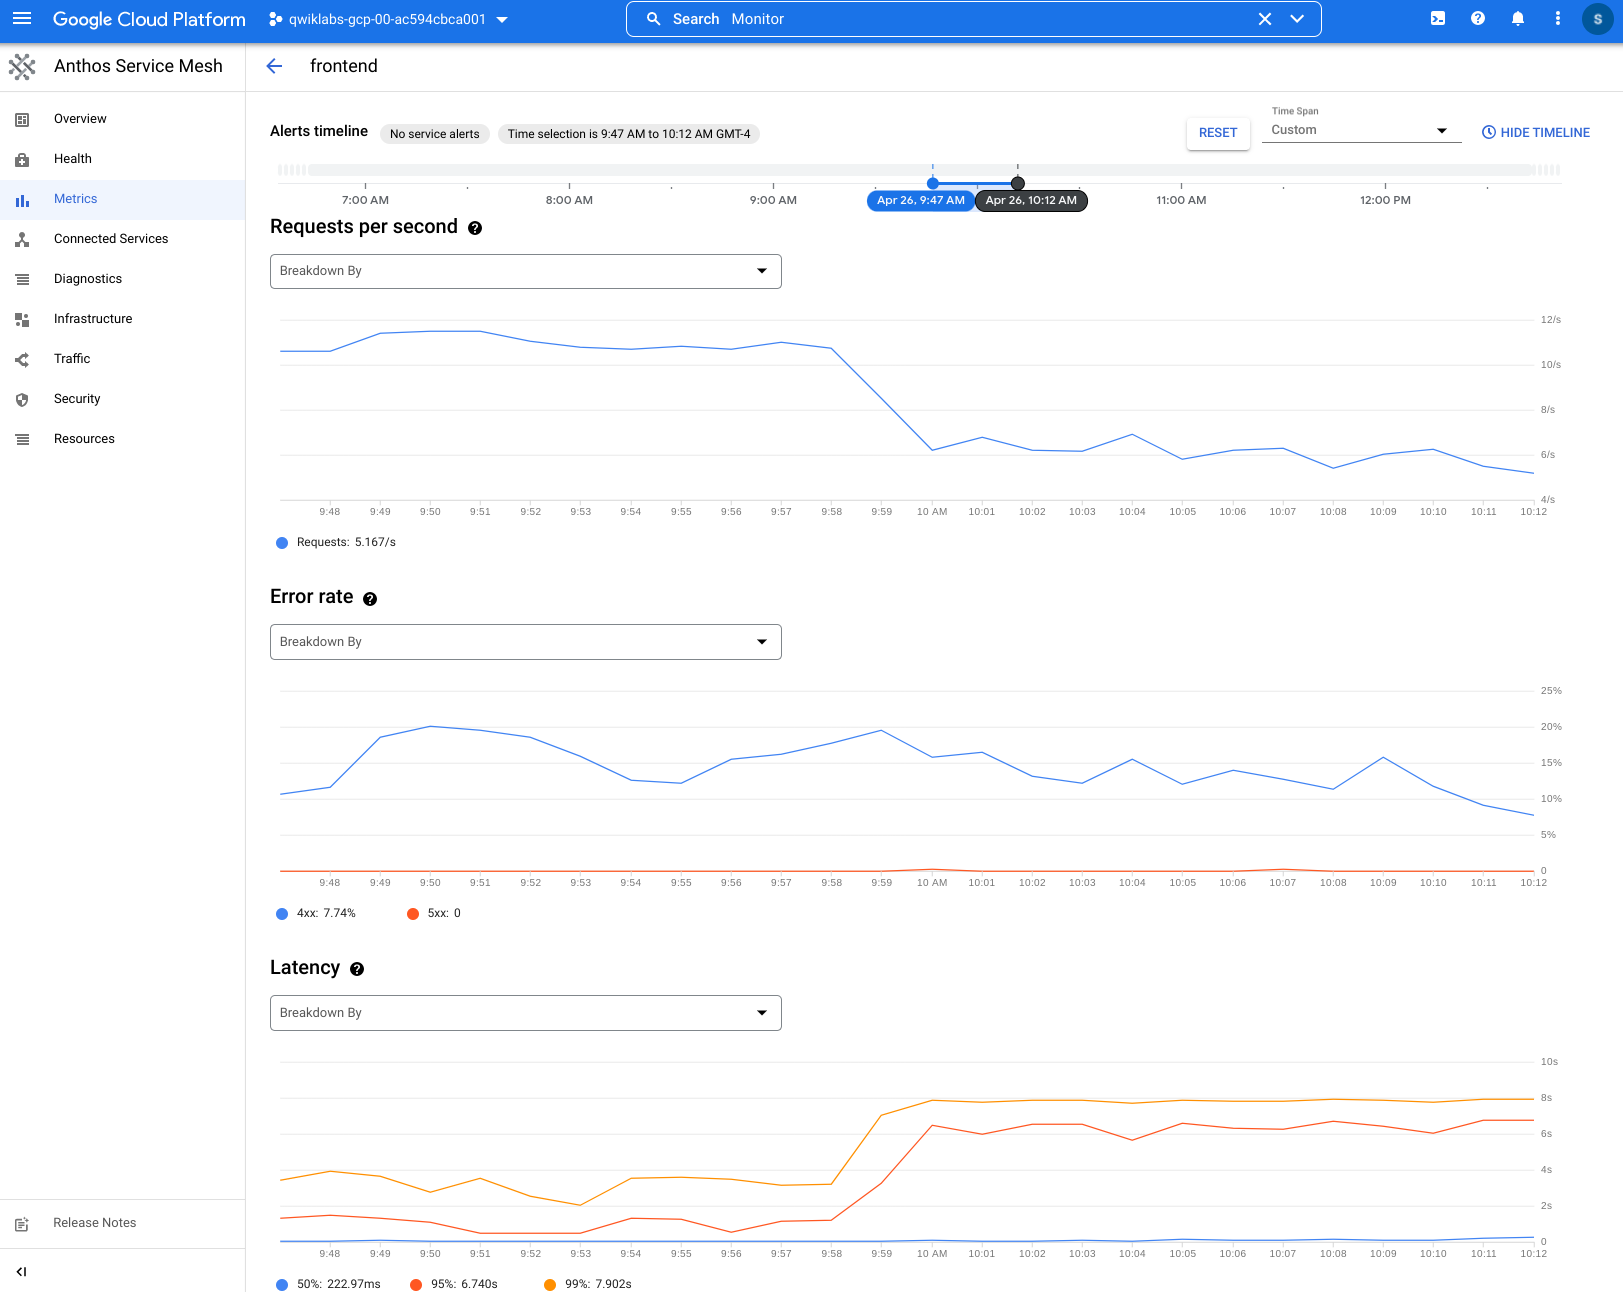
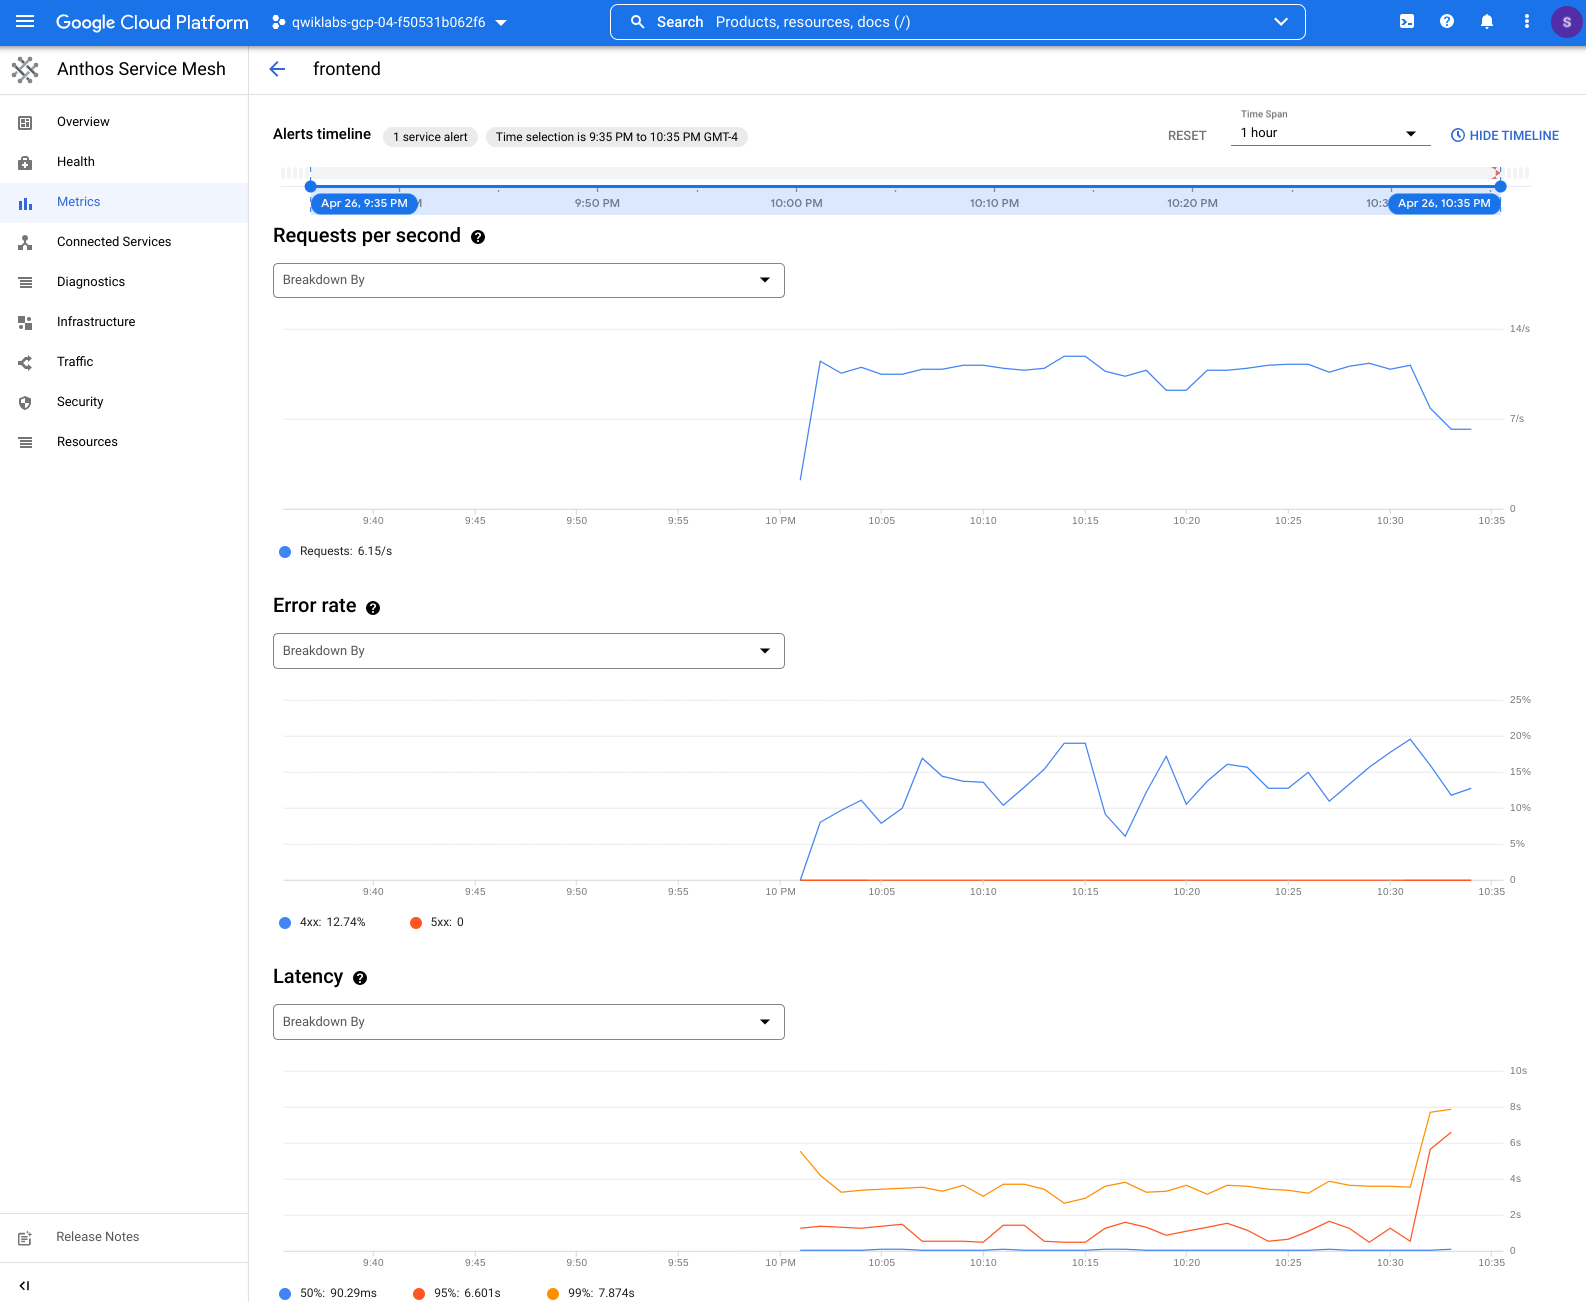
latest and greatest with SLO

diff --git a/demos/asm-mcp-multi-clusters/instructions/en.md b/demos/asm-mcp-multi-clusters/instructions/en.md
@@ -7,17 +7,19 @@
 
 ## Overview
 
-This lab shows you how to run distributed services on multiple Google Kubernetes Engine (GKE) clusters in Google Cloud Platform (GCP) using Anthos Service Mesh (ASM). ASM is Google’s fully managed Istio-compliant service mesh, which ultimately unburdens your operations and development teams.
+This lab shows you how to run distributed services on multiple Google Kubernetes Engine (GKE) clusters in Google Cloud Platform (GCP) using Anthos Service Mesh. Anthos Service Mesh is Google’s fully managed Istio-compliant service mesh, which ultimately unburdens your operations and development teams.
 
 You will perform the following steps:
-- Install the Anthos Service Mesh (ASM) Managed Control Plane (MCP).
+- Install Anthos Service Mesh Managed Control Plane.
 - Deploy Bank of Anthos, a sample app comprised of 6 stateless services and 2 databases, into your mesh.
 - Deploy an Ingress Gateway to allow ingress to Bank of Anthos through a public IP address.
 - See in action distributed services across two clusters.
-- Understand the value of the two features Managed Control Plane and Managed Data Plane
 - Use Google Cloud's Multi Cluster Ingress controller to load balance ingress across clusters.
+- Understand the value of the two Anthos Service Mesh features: Managed Control Plane and Managed Data Plane.
+- Enforce policy constraints to improve your security posture with your clusters and your mesh with Policy Controller, a component of Anthos Config Management.
 - Explore the Google Cloud Console (UI) to view health and performance of your services in your mesh.
-- Enforce policies (sidecar proxies injection + `STRICT` mTLS) to improve your security posture with your clusters and your mesh with Policy Controller, a component of Anthos Config Management.
+- Define SLO, generate fault injections and SLO burn rate alerts
+
 
 ![Architecture](./img/architecture.png)
 
@@ -741,7 +743,70 @@ Click on **Metrics** from the left hand side navigation menu to view the [golden
 ![frontend service metrics](./img/frontend-service-metrics.png)
 
 
-From here, what we want to do now is injecting errors and delays in the `transactionhistory` service in order to see how these metrics behave. We will leverage the native Istio's `VirtualService` resource to accomplish this, which allows fault injection without actually updating the code of your application. Really convenient to put in place a chaos monkey setup!
+## Define SLO and alert
+
+In this section, you will define one SLO for the `frontend` service to track how healthy this service is. You will also set up one SLO burn rate alert in order to get notified as soon as the you have incident based on your SLO definition. 
+
+Navigate to the **Health** view of the `frontend` service. Click on the link displayed by the command below:
+```bash
+echo -e "https://console.cloud.google.com/anthos/services/service/${BANK_OF_ANTHOS_NAMESPACE}/frontend/health?project=${PROJECT_ID}"
+```
+
+![SLO setup step 1](./img/slo-setup-1.png)
+
+Click on the **+ Create SLO** button on the right of this screen to navigate to the **Set your service-level indicator (SLI)** step of the **Create a Service Level Objective (SLO)** wizard.
+
+![SLO setup step 2](./img/slo-setup-2.png)
+
+Select **Latency** in the **Choose a metric** section and click on **Continue** to navigate to the **Define SLI details** step.
+
+![SLO setup step 3](./img/slo-setup-3.png)
+
+Set the **Latency threshold** field to `2000` ms in the **Performance metric** section and click on **Continue** to navigate to the **Set your service-level objective (SLO)** step.
+
+![SLO setup step 4](./img/slo-setup-4.png)
+
+Set the **Performance goal** field to `99.9` % and click on **Continue** to navigate to the **Review and save** step.
+
+![SLO setup step 5](./img/slo-setup-5.png)
+
+You can see the generated `JSON` value of this setup which could be potentially reused with your automation tool via the associated API, Terraform module, etc. The value of this `JSON` definition is similar to:
+```output
+{
+  "displayName": "99.9% - Latency - Rolling 28 days",
+  "goal": 0.999,
+  "rollingPeriod": "2419200s",
+  "serviceLevelIndicator": {
+    "basicSli": {
+      "latency": {
+        "threshold": "2s"
+      }
+    }
+  }
+}
+```
+
+Click on the **Create SLO** button. You will now see this SLO created for the `frontend` service:
+
+![SLO setup step 6](./img/slo-setup-6.png)
+
+On the right of this screen, click on the **Create SLO alert** button associated to this SLO to navigate to the **Set SLO alert conditions** step of the **Create SLO burn rate policy** wizard.
+
+![SLO setup step 7](./img/slo-setup-7.png)
+
+Set the **Lookback duration** field to `1` minute(s), click on **Next**.
+
+![SLO setup step 8](./img/slo-setup-8.png)
+
+Click again on **Next** on the **Who should be notified** step and finally on **Save** on the last **What are the steps to fix the issue** step.
+
+Congratulations! You now have your SLO and its associated burn rate alert.
+
+
+
+## Generate fault injections and SLO burn rate alert
+
+In this section, you will inject errors and delays in the `transactionhistory` service in order to see how these metrics and SLOs previously defined behave. We will leverage the native Istio's `VirtualService` resource to accomplish this, which allows fault injection without actually updating the code of your application. Really convenient to put in place a chaos monkey test.
 
 Deploy a new `VirtualService` in clusters 1 and 2 for the `transactionhistory` service in order to `abort` 50% of the requests by returning a `500` HTTP status code and add `delay` for 50% of the requests.
 ```bash
@@ -751,11 +816,11 @@ kubectl --context=${CLUSTER_2} -n ${BANK_OF_ANTHOS_NAMESPACE} \
   apply -f ${HOME}/bank-of-anthos/transaction-history-with-fault-virtualservice.yaml
 ```
 
-Navigate to one of your Bank of Anthos website through one of the Public IP addresses generated earlier, and from there if you hit refresh multiple times, you will see that the `frontend` will have both higher response to display the list of the transactions (because of the `delay` we just added) and will safely display an error message **Error: Could Not Load Transactions** when `transactionhistory` is returning an error (because of the `abort` we just added).
+Navigate to one of your Bank of Anthos website through one of the Public IP addresses generated earlier. From there if you hit refresh multiple times, you will see that the `frontend` will have both higher response time to display the list of the transactions (because of the `delay` we just added) and will properly display an error message **Error: Could Not Load Transactions** when `transactionhistory` is returning an error (because of the `abort` we just added).
 
 ![Bank of Anthos's home page with transactions history load failing](./img/bankofanthos-home-transactionhistory-error.png)
 
-Wait for a few minutes, the `loadgenerator` application will generate more traffic with these errors injected and from there you could see the degradation for both `transactionhistory` and `frontend`.
+Wait for a few minutes, while the `loadgenerator` application is generating more traffic with these errors injected and from there you will see the degradation for both `transactionhistory` and `frontend` services.
 
 Navigate to the **Metrics** view of the `frontend` service to see that the **Requests per second** and **Latency** metrics for example are showing the degradation. Click on the link displayed by the command below:
 ```bash
@@ -771,19 +836,48 @@ echo -e "https://console.cloud.google.com/anthos/services/service/${BANK_OF_ANTH
 
 !![transactionhistory service metrics degradated](./img/transactionhistory-service-metrics-degradated.png)
 
-## Further and complementary resources
+Navigate to the **Anthos > Anthos Service Mesh** dashboard. Click on the link displayed by the command below:
+```bash
+echo -e "https://console.cloud.google.com/anthos/services?project=${PROJECT_ID}"
+```
+
+![SLO burn rate alert 1](./img/burn-rate-alert-1.png)
+
+You can see the message **1 service requires immediate action** after waiting for a few minutes. You can also see the associated red icon next to the `frontend` service in the table view of your **Services**. Navigate to the details view of the `frontend` service by clicking on it in this table.
+
+![SLO burn rate alert 2](./img/burn-rate-alert-2.png)
+
+In the **Service status: alert firing** section, click on **--> See SLO details**.
+
+![SLO burn rate alert 3](./img/burn-rate-alert-3.png)
+
+Click on the **Alerts firing 1/1** tab and then click on **View policy** to get more details about this burn rate alert:
+
+![SLO burn rate alert 4](./img/burn-rate-alert-4.png)
+
+From there you can take actions by fixing the issue, get webhooks or emails set up for the burn rate alerts, etc.
+
+
+
+
+Congratulations! You made it until the end of this workshop!
+
+
+## Complementary resources
 
 - [Managed Anthos Service Mesh supported features](https://cloud.google.com/service-mesh/docs/managed/supported-features-mcp)
 - [Anthos Service Mesh security best practices](https://cloud.google.com/service-mesh/docs/security/anthos-service-mesh-security-best-practices)
 - [Policy Controller's `Constraints` template library](https://cloud.google.com/anthos-config-management/docs/reference/constraint-template-library)
 - [Anthos Service Mesh security policy constraints bundle](https://cloud.google.com/anthos-config-management/docs/how-to/using-asm-security-policy)
 - [From edge to mesh: Exposing service mesh applications through GKE Ingress](https://cloud.google.com/architecture/exposing-service-mesh-apps-through-gke-ingress)
+- [Multi Cluster Ingress](https://cloud.google.com/kubernetes-engine/docs/concepts/multi-cluster-ingress)
+- [Site Reliability Engineering (SRE) books](https://sre.google/books/)
 
 ![[/fragments/endqwiklab]]
 
 ![[/fragments/copyright]]
 
 
-##### Manual Last Updated April 26, 2022
+##### Manual Last Updated April 27, 2022
 
-##### Lab Last Tested April 26, 2022
+##### Lab Last Tested April 27, 2022
